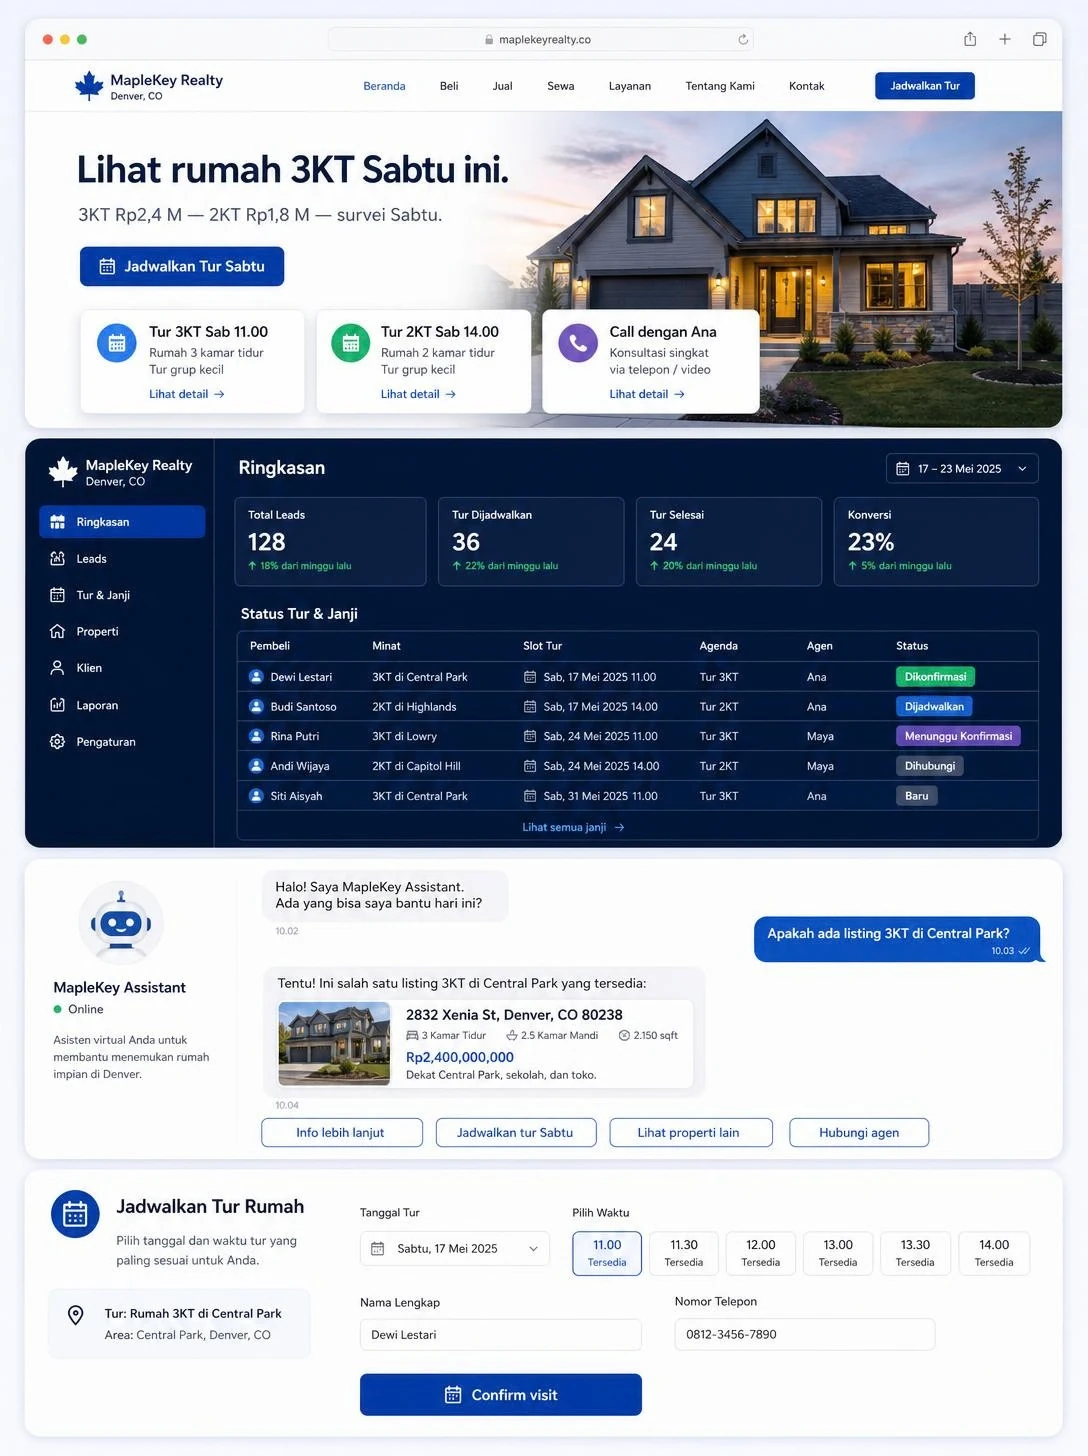
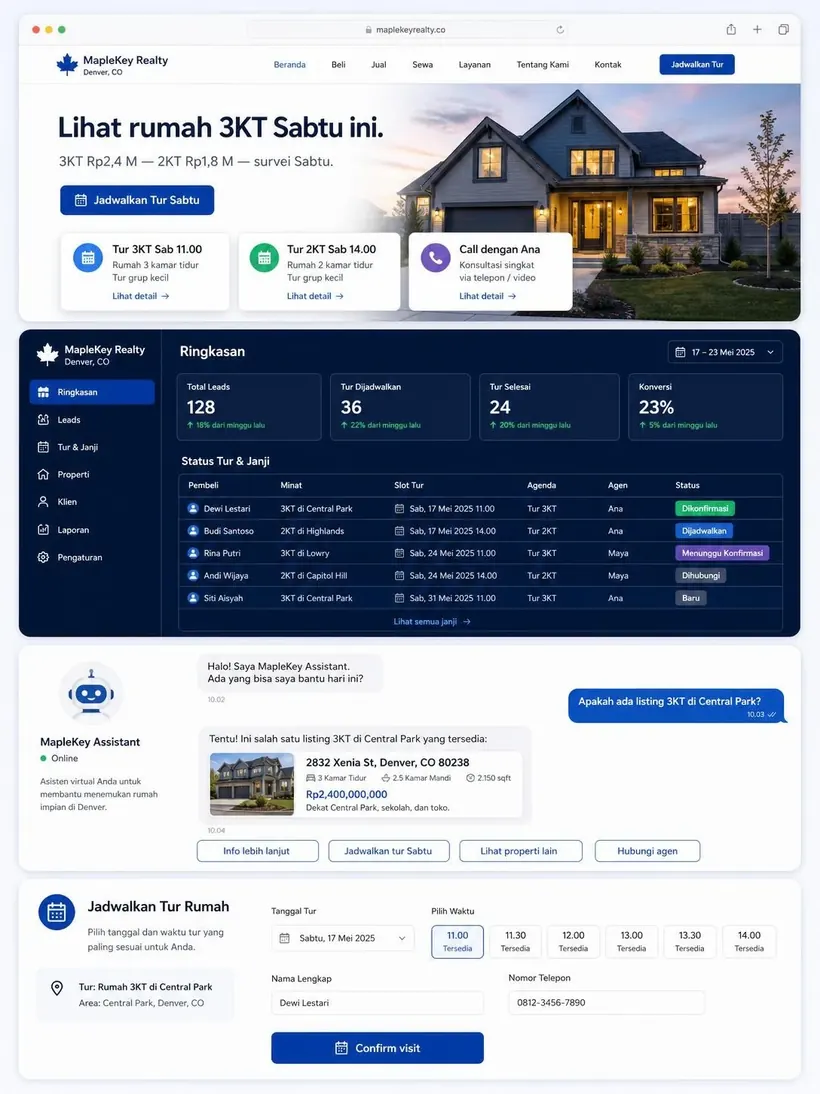
SEO homepage: internal link ke 86 halaman, keyword pembeli, optimasi gambar
- Homepage sebelumnya 0 link ke /jasa-website/* dan /blog/* (86% sitemap).
  Tambah section Lokasi (16 kota utama + 14 link kota lain + index) dan
  Artikel (6 blog paling relevan) => 11 -> 48 internal link di main.
- Hero + metadata ditulis ulang pakai kata kunci pembeli: 'jasa pembuatan
  website', 'website murah', 'chatbot CS'. og:description kini sinkron
  dengan meta description.
- 6 WebP screenshot demo 1088x1456 (~170KB) -> 820x1094 (~68KB), -60%,
  karena ditampilkan pada 410x547. width/height diperbaiki 653x874 -> 820x1094
  dan 3 gambar pertama eager (bukan lazy) untuk LCP gallery.

Changed region(s): [[0.1524, 0.808, 0.1829, 0.8391], [0.0915, 0.3108, 0.122, 0.3419]]

diff --git a/app/page.jsx b/app/page.jsx
@@ -1,4 +1,5 @@
 import { demos } from '../lib/demos';
+import { CITIES } from '../lib/lokasi';
 import Image from 'next/image';
 import Reveal from '../components/Reveal';
 import HeroArt from '../components/HeroArt';
@@ -11,8 +12,8 @@ import { Zap, MessageSquare, CalendarCheck, BarChart3, Globe, ShieldCheck, Check
 import { juta } from '../lib/format';
 
 export const metadata = {
-  title: 'Jasa Pembuatan Website Profesional + CS AI Otomatis',
-  description: 'Kami membuatkan website sesuai usaha Anda — dengan opsi CS AI otomatis, domain, hosting, dan SSL sudah termasuk. Online 3–14 hari.',
+  title: 'Jasa Pembuatan Website Murah + Chatbot CS AI Otomatis',
+  description: 'Jasa pembuatan website custom untuk usaha Anda — chatbot CS AI otomatis, domain, hosting, dan SSL sudah termasuk. Online 3–14 hari, mulai Rp 1,2 juta.',
   alternates: { canonical: '/' },
 };
 
@@ -56,6 +57,48 @@ const FEATURES = [
   { ico: ShieldCheck, n: '06', t: 'Jujur & terbuka', d: 'Semua yang termasuk ditulis terbuka. Tidak ada biaya uang muka yang membebankan pelanggan.' },
 ];
 
+/* Kota & blog yang ditautkan dari homepage — distribusi link equity dari
+   halaman terkuat ke 86 halaman yang sebelumnya tidak dapat link sama sekali. */
+const KOTA_UTAMA = new Set([
+  'jakarta', 'bogor', 'depok', 'tangerang', 'bekasi',
+  'bandung', 'semarang', 'solo', 'jogja', 'surabaya',
+  'malang', 'denpasar', 'medan', 'palembang', 'makassar', 'balikpapan',
+]);
+const KOTA_TEASER = CITIES.filter((c) => KOTA_UTAMA.has(c.slug));
+const KOTA_LAIN = CITIES.filter((c) => !KOTA_UTAMA.has(c.slug)).slice(0, 14);
+const BLOG_TEASER = [
+  {
+    slug: 'harga-jasa-website-komponen-jujur',
+    title: 'Harga Jasa Website: Bongkar Komponen Biayanya',
+    excerpt: 'Domain, hosting, desain, maintenance — apa yang wajar Anda bayar dan mana yang markup.',
+  },
+  {
+    slug: 'seo-lokal-jasa-kota',
+    title: 'SEO Lokal: Cara Muncul di "Jasa X + Kota Anda"',
+    excerpt: '5 fondasi agar pencarian "jasa service AC Bandung" yang muncul adalah website Anda.',
+  },
+  {
+    slug: 'chatbot-rule-based-vs-ai-umkm',
+    title: 'Chatbot Rule-Based vs AI: Mana yang Cocok untuk UMKM?',
+    excerpt: 'Tombol klik-klik atau AI yang paham bahasa? Pilih yang tidak menyiksa pelanggan Anda.',
+  },
+  {
+    slug: 'kecepatan-website-pagepeed-umkm',
+    title: 'Kecepatan Website & PageSpeed: Panduan Praktis UMKM',
+    excerpt: 'Cara membaca skor PageSpeed dengan benar dan 6 perbaikan tercepat tanpa coding.',
+  },
+  {
+    slug: 'google-business-profile-15-menit',
+    title: 'Lengkapi Google Business Profile dalam 15 Menit',
+    excerpt: 'Checklist profil Google yang membuat usaha Anda muncul di Maps saat dicari "terdekat".',
+  },
+  {
+    slug: 'domain-com-vs-id-bisnis',
+    title: 'Domain .com vs .id: Mana yang Tepat untuk Bisnis Anda?',
+    excerpt: 'Harga, syarat dokumen, dan kesan pelanggan — perbandingan jujur .com vs .id.',
+  },
+];
+
 export default function Home() {
   return (
     <main className="wrap">
@@ -63,11 +106,12 @@ export default function Home() {
       {/* HERO — seimbang: website custom terjangkau + CS otomatis, tanpa angka 24/7, tanpa harga */}
       <section className="hero">
         <div>
-          <span className="kicker">Jasa website & CS otomatis</span>
-          <h1>Website custom murah dengan <span className="hl">CS otomatis</span></h1>
+          <span className="kicker">Jasa pembuatan website + chatbot CS</span>
+          <h1>Jasa Pembuatan Website Murah dengan <span className="hl">Chatbot CS Otomatis</span></h1>
           <p className="lead">
-            Dipercaya puluhan pemilik usaha: website custom 8–15 halaman,
-            gratis domain tahun pertama, dan CS otomatis yang tidak pernah tidur.
+            Website custom 8–15 halaman untuk usaha Anda, gratis domain tahun
+            pertama, plus chatbot CS AI otomatis yang menjawab pelanggan setiap
+            hari. Online 3–14 hari, mulai Rp 1,2 juta sekali bayar.
           </p>
           <div className="hero-ctas">
             <a href="/services" className="m-btn">Lihat Layanan</a>
@@ -156,12 +200,19 @@ export default function Home() {
         </div>
         <div className="shot-grid">
           {demos.map((d, i) => {
-            const src = SHOTS[d.slug] || `https://picsum.photos/seed/tsw-${d.slug}-hero/1200/750`;
+            const src = SHOTS[d.slug];
             return (
               <Reveal key={d.slug} delay={(i % 3) * 90}>
                 <a href={`/demos/${d.slug}`} className="shot-card">
                   <div className="shot-frame">
-                    <img src={src} alt={`Contoh website ${d.niche} — ${d.name}`} width={653} height={874} loading="lazy" />
+                    <img
+                      src={src}
+                      width={820}
+                      height={1094}
+                      alt={`Contoh website ${d.niche} — ${d.name}`}
+                      loading={i < 3 ? 'eager' : 'lazy'}
+                      decoding="async"
+                    />
                     <span className="shot-tag">{d.niche}</span>
                   </div>
                   <div className="shot-cap">
@@ -203,6 +254,33 @@ export default function Home() {
         <WallOfLove />
       </Reveal>
 
+      <Reveal as="section" className="section" id="lokasi">
+        <div className="sec-head center">
+          <span className="kicker">Lokasi</span>
+          <h2>Jasa pembuatan website untuk kota Anda</h2>
+          <p>Seluruh proses online, tapi halaman tiap kota berisi info lokal spesifik: area, jangkauan, dan contoh usaha di kota tersebut.</p>
+        </div>
+        <div className="loc-grid">
+          {KOTA_TEASER.map((c) => (
+            <a key={c.slug} href={`/jasa-website/${c.slug}`} className="loc-card">
+              <span className="loc-name">{c.kota}</span>
+              <span className="loc-sub">{c.provinsi}</span>
+              <span className="loc-go">Website di {c.kota}</span>
+            </a>
+          ))}
+        </div>
+        <p className="loc-more">
+          Lihat juga:{' '}
+          {KOTA_LAIN.map((c, i) => (
+            <span key={c.slug}>
+              <a href={`/jasa-website/${c.slug}`}>{c.kota}</a>
+              {i < KOTA_LAIN.length - 1 ? ' · ' : ''}
+            </span>
+          ))}
+          {' '}— <a href="/jasa-website">semua {CITIES.length} kota</a>.
+        </p>
+      </Reveal>
+
       <Reveal as="section" className="section faq-sec">
         <div className="sec-head center">
           <span className="kicker">FAQ</span>
@@ -210,6 +288,23 @@ export default function Home() {
           <p>Jawaban singkat untuk hal yang paling sering ditanyakan calon pelanggan.</p>
         </div>
         <Faq />
+      </Reveal>
+
+      <Reveal as="section" className="section" id="artikel">
+        <div className="sec-head center">
+          <span className="kicker">Blog</span>
+          <h2>Pelajari website &amp; AI sebelum memesan</h2>
+          <p>Panduan singkat untuk pemilik usaha: dari harga jasa website, SEO lokal, sampai memilih chatbot.</p>
+        </div>
+        <div className="loc-grid">
+          {BLOG_TEASER.map((b) => (
+            <a key={b.slug} href={`/blog/${b.slug}`} className="loc-card">
+              <span className="loc-name">{b.title}</span>
+              <span className="loc-sub">{b.excerpt}</span>
+              <span className="loc-go">Baca artikel</span>
+            </a>
+          ))}
+        </div>
       </Reveal>
 
       <Reveal as="section">

diff --git a/app/layout.jsx b/app/layout.jsx
@@ -13,20 +13,21 @@ const head = Plus_Jakarta_Sans({ subsets: ['latin'], weight: ['600', '700', '800
 export const metadata = {
   metadataBase: new URL('https://techsaasweb.com'),
   title: {
-    default: 'Jasa Pembuatan Website Profesional + CS AI Otomatis — TechSaaSWeb',
+    default: 'Jasa Pembuatan Website Murah + Chatbot CS AI Otomatis — TechSaaSWeb',
     template: '%s | TechSaaSWeb',
   },
   description:
-    'Website custom dan CS AI otomatis yang kami buatkan untuk usaha Anda. Domain, hosting, dan SSL sudah termasuk, online 3–14 hari.',
+    'Jasa pembuatan website custom untuk usaha Anda — chatbot CS AI otomatis, domain, hosting, dan SSL sudah termasuk. Online 3–14 hari, mulai Rp 1,2 juta.',
   keywords: [
-    'jasa pembuatan website', 'website bisnis', 'website UMKM', 'domain .com', 'domain .id',
-    'CS AI website', 'asisten CS otomatis', 'booking otomatis', 'toko online',
+    'jasa pembuatan website', 'jasa website', 'website murah', 'website bisnis', 'website UMKM',
+    'pembuatan website', 'domain .com', 'domain .id', 'chatbot CS', 'CS AI otomatis',
+    'chatbot WhatsApp', 'booking otomatis', 'toko online',
   ],
   alternates: { canonical: '/' },
   openGraph: {
     type: 'website', siteName: 'TechSaaSWeb', locale: 'id_ID',
-    title: 'Jasa Pembuatan Website Profesional + CS AI Otomatis — TechSaaSWeb',
-    description: 'Website custom dan CS AI otomatis yang kami buatkan untuk usaha Anda. Domain, hosting, dan SSL sudah termasuk.',
+    title: 'Jasa Pembuatan Website Murah + Chatbot CS AI Otomatis — TechSaaSWeb',
+    description: 'Jasa pembuatan website custom untuk usaha Anda — chatbot CS AI otomatis, domain, hosting, dan SSL sudah termasuk. Online 3–14 hari, mulai Rp 1,2 juta.',
     images: ['/logo-biru-tua.svg'],
   },
   twitter: { card: 'summary_large_image' },

diff --git a/app/globals.css b/app/globals.css
@@ -1055,3 +1055,26 @@ table.compare td:first-child { font-weight: 600; color: var(--ink); }
 .dark-card:hover { box-shadow: var(--shadow-lg); }
 
 @media print { .nav-shell, footer, #tsw-bubble, #tsw-panel { display: none !important; } body { background: #fff; } }
+
+/* ---- lokasi & artikel grid (homepage): link equity ke /jasa-website/* & /blog/* ---- */
+.loc-grid { display: grid; gap: .8rem; grid-template-columns: 1fr; margin-top: 1.4rem; }
+@media (min-width: 640px) { .loc-grid { grid-template-columns: repeat(2, 1fr); } }
+@media (min-width: 1000px) { .loc-grid { grid-template-columns: repeat(4, 1fr); } }
+.loc-card {
+  display: flex; flex-direction: column; gap: .25rem;
+  padding: .85rem .95rem;
+  background: #fff; border: 1px solid var(--line); border-radius: var(--radius);
+  box-shadow: var(--shadow); text-decoration: none; color: inherit;
+  transition: transform .2s, box-shadow .2s, border-color .2s;
+}
+.loc-card:hover { transform: translateY(-3px); box-shadow: var(--shadow-lg); border-color: var(--primary); }
+.loc-name { font-weight: 700; font-size: .96rem; color: var(--ink); }
+.loc-sub { font-size: .82rem; color: var(--muted); line-height: 1.4; }
+.loc-go {
+  margin-top: .3rem; font-size: .82rem; font-weight: 700; color: var(--primary);
+  display: inline-flex; align-items: center; gap: .3rem;
+}
+.loc-card:hover .loc-go { text-decoration: underline; }
+.loc-more { margin: 1.1rem 0 0; font-size: .88rem; color: var(--muted); line-height: 1.7; }
+.loc-more a { color: var(--primary); font-weight: 600; text-decoration: none; }
+.loc-more a:hover { text-decoration: underline; }
